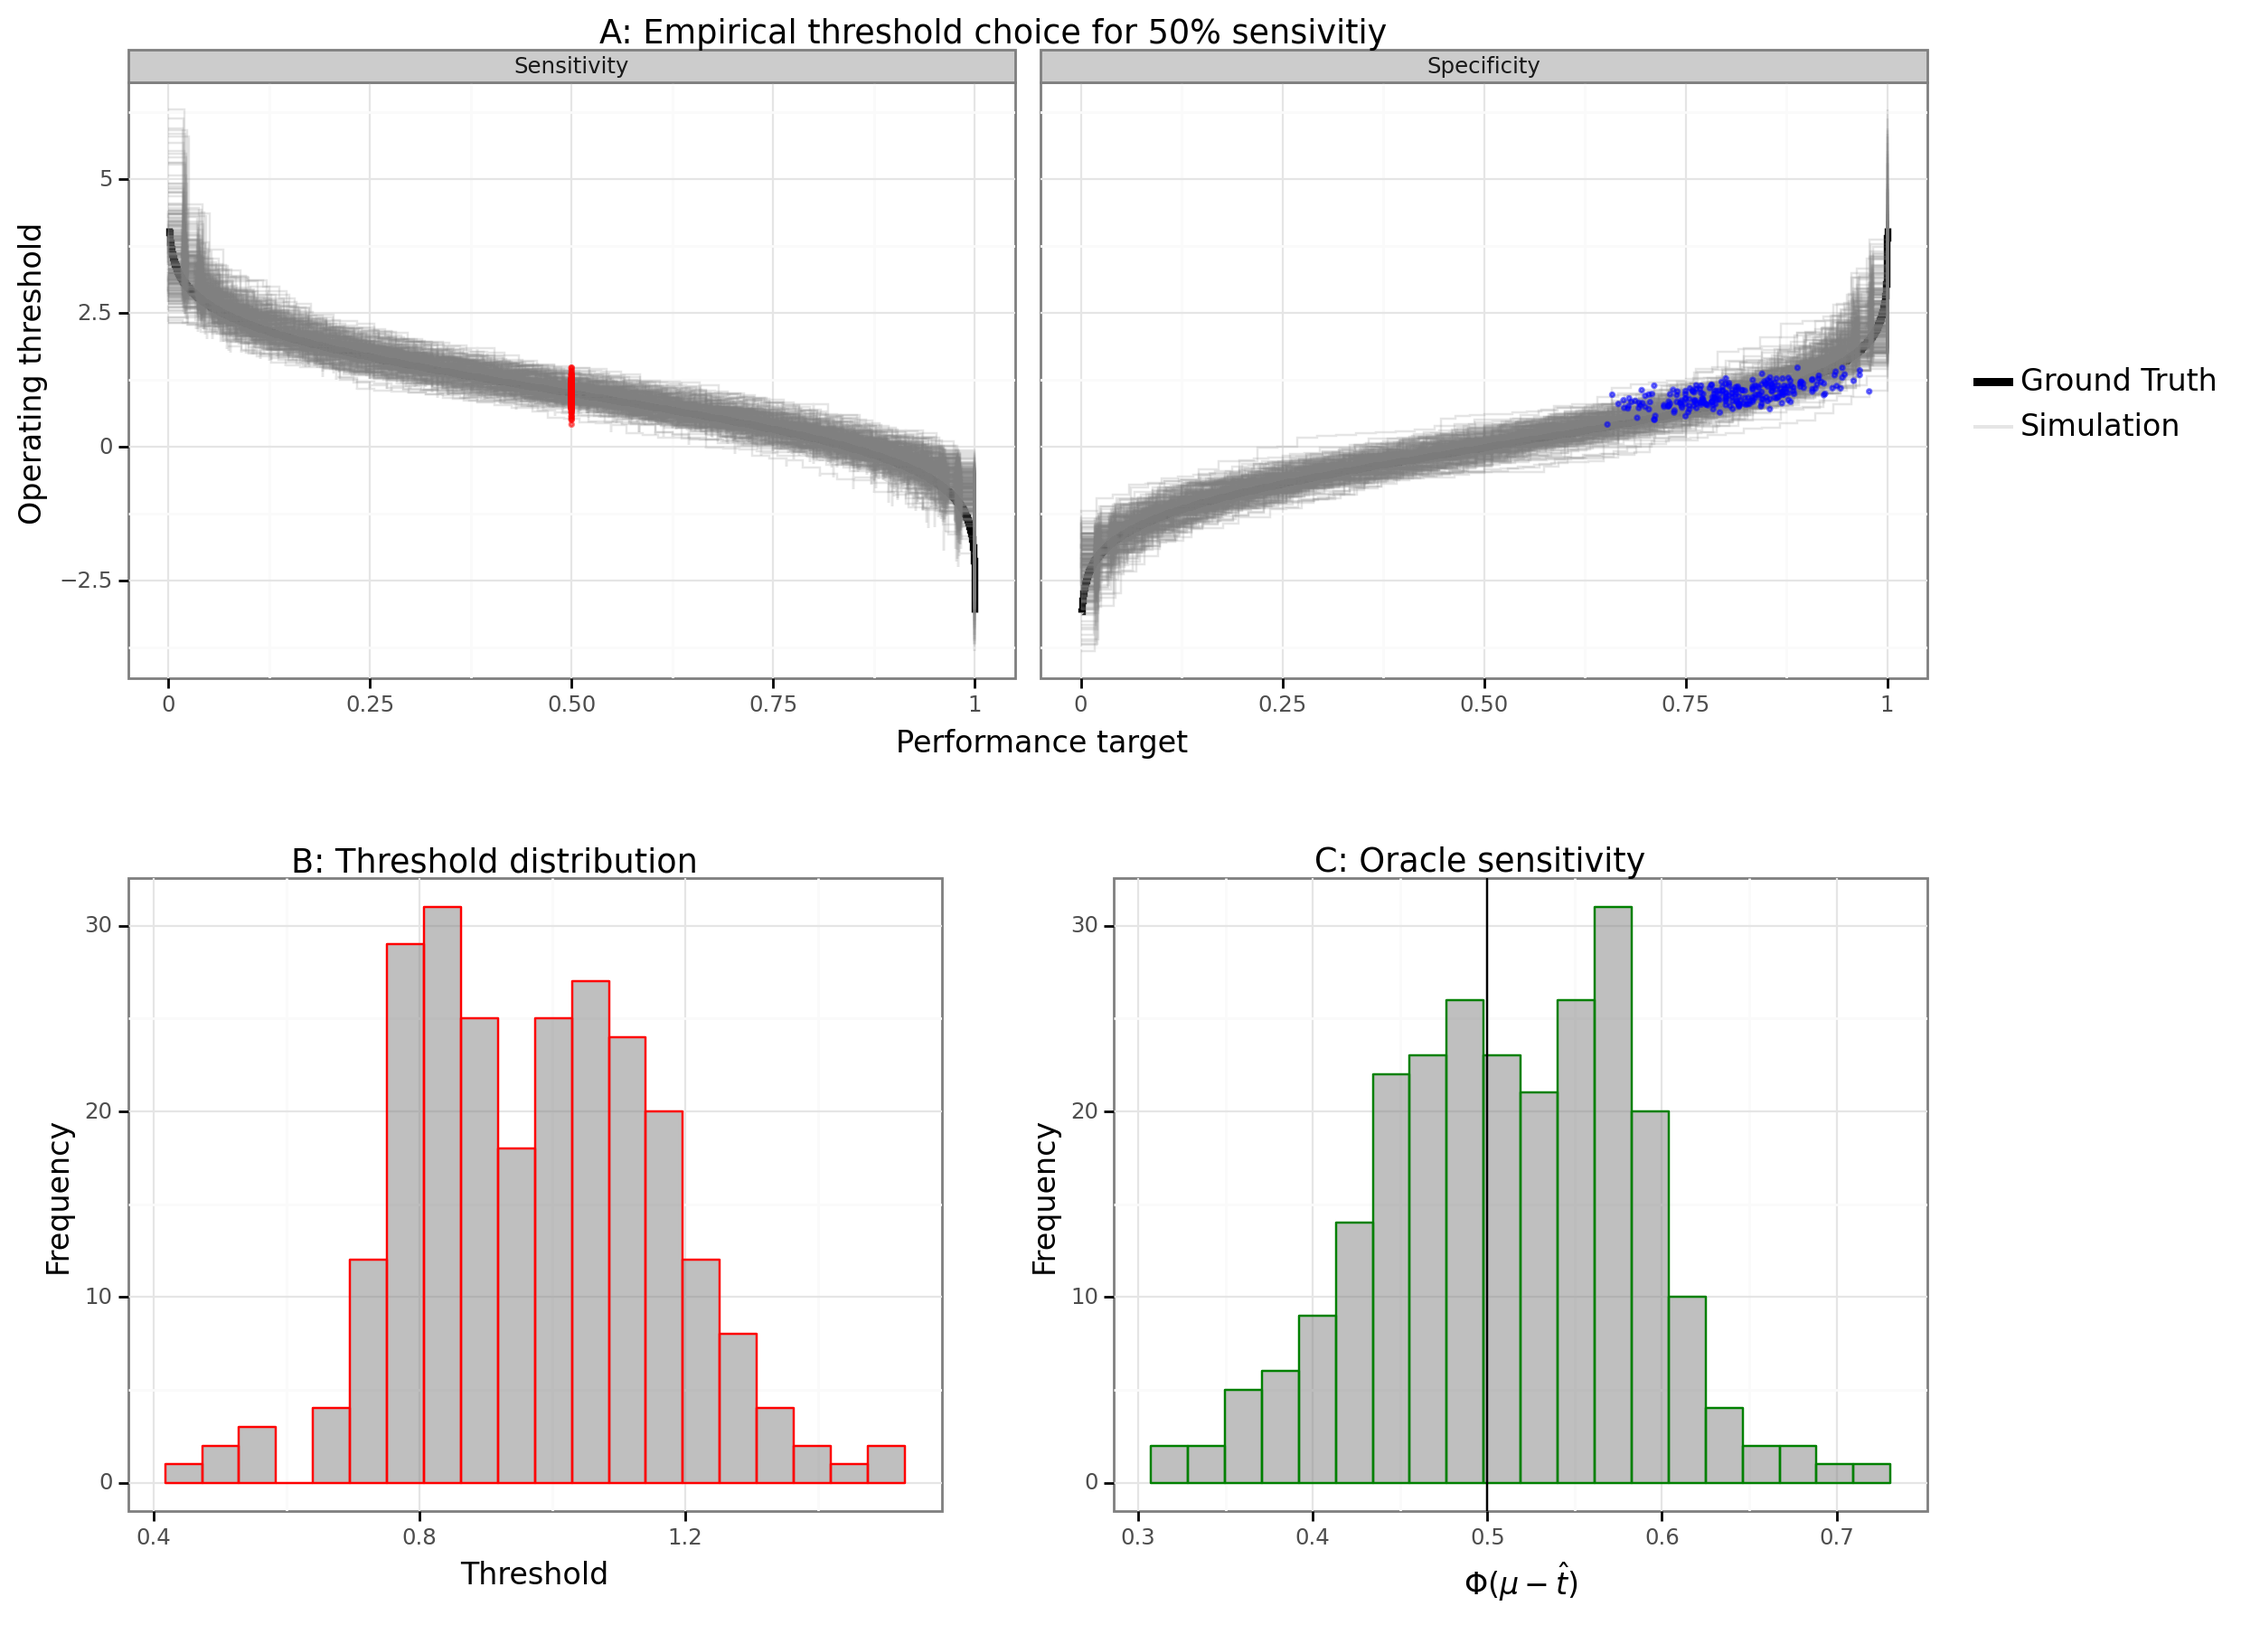
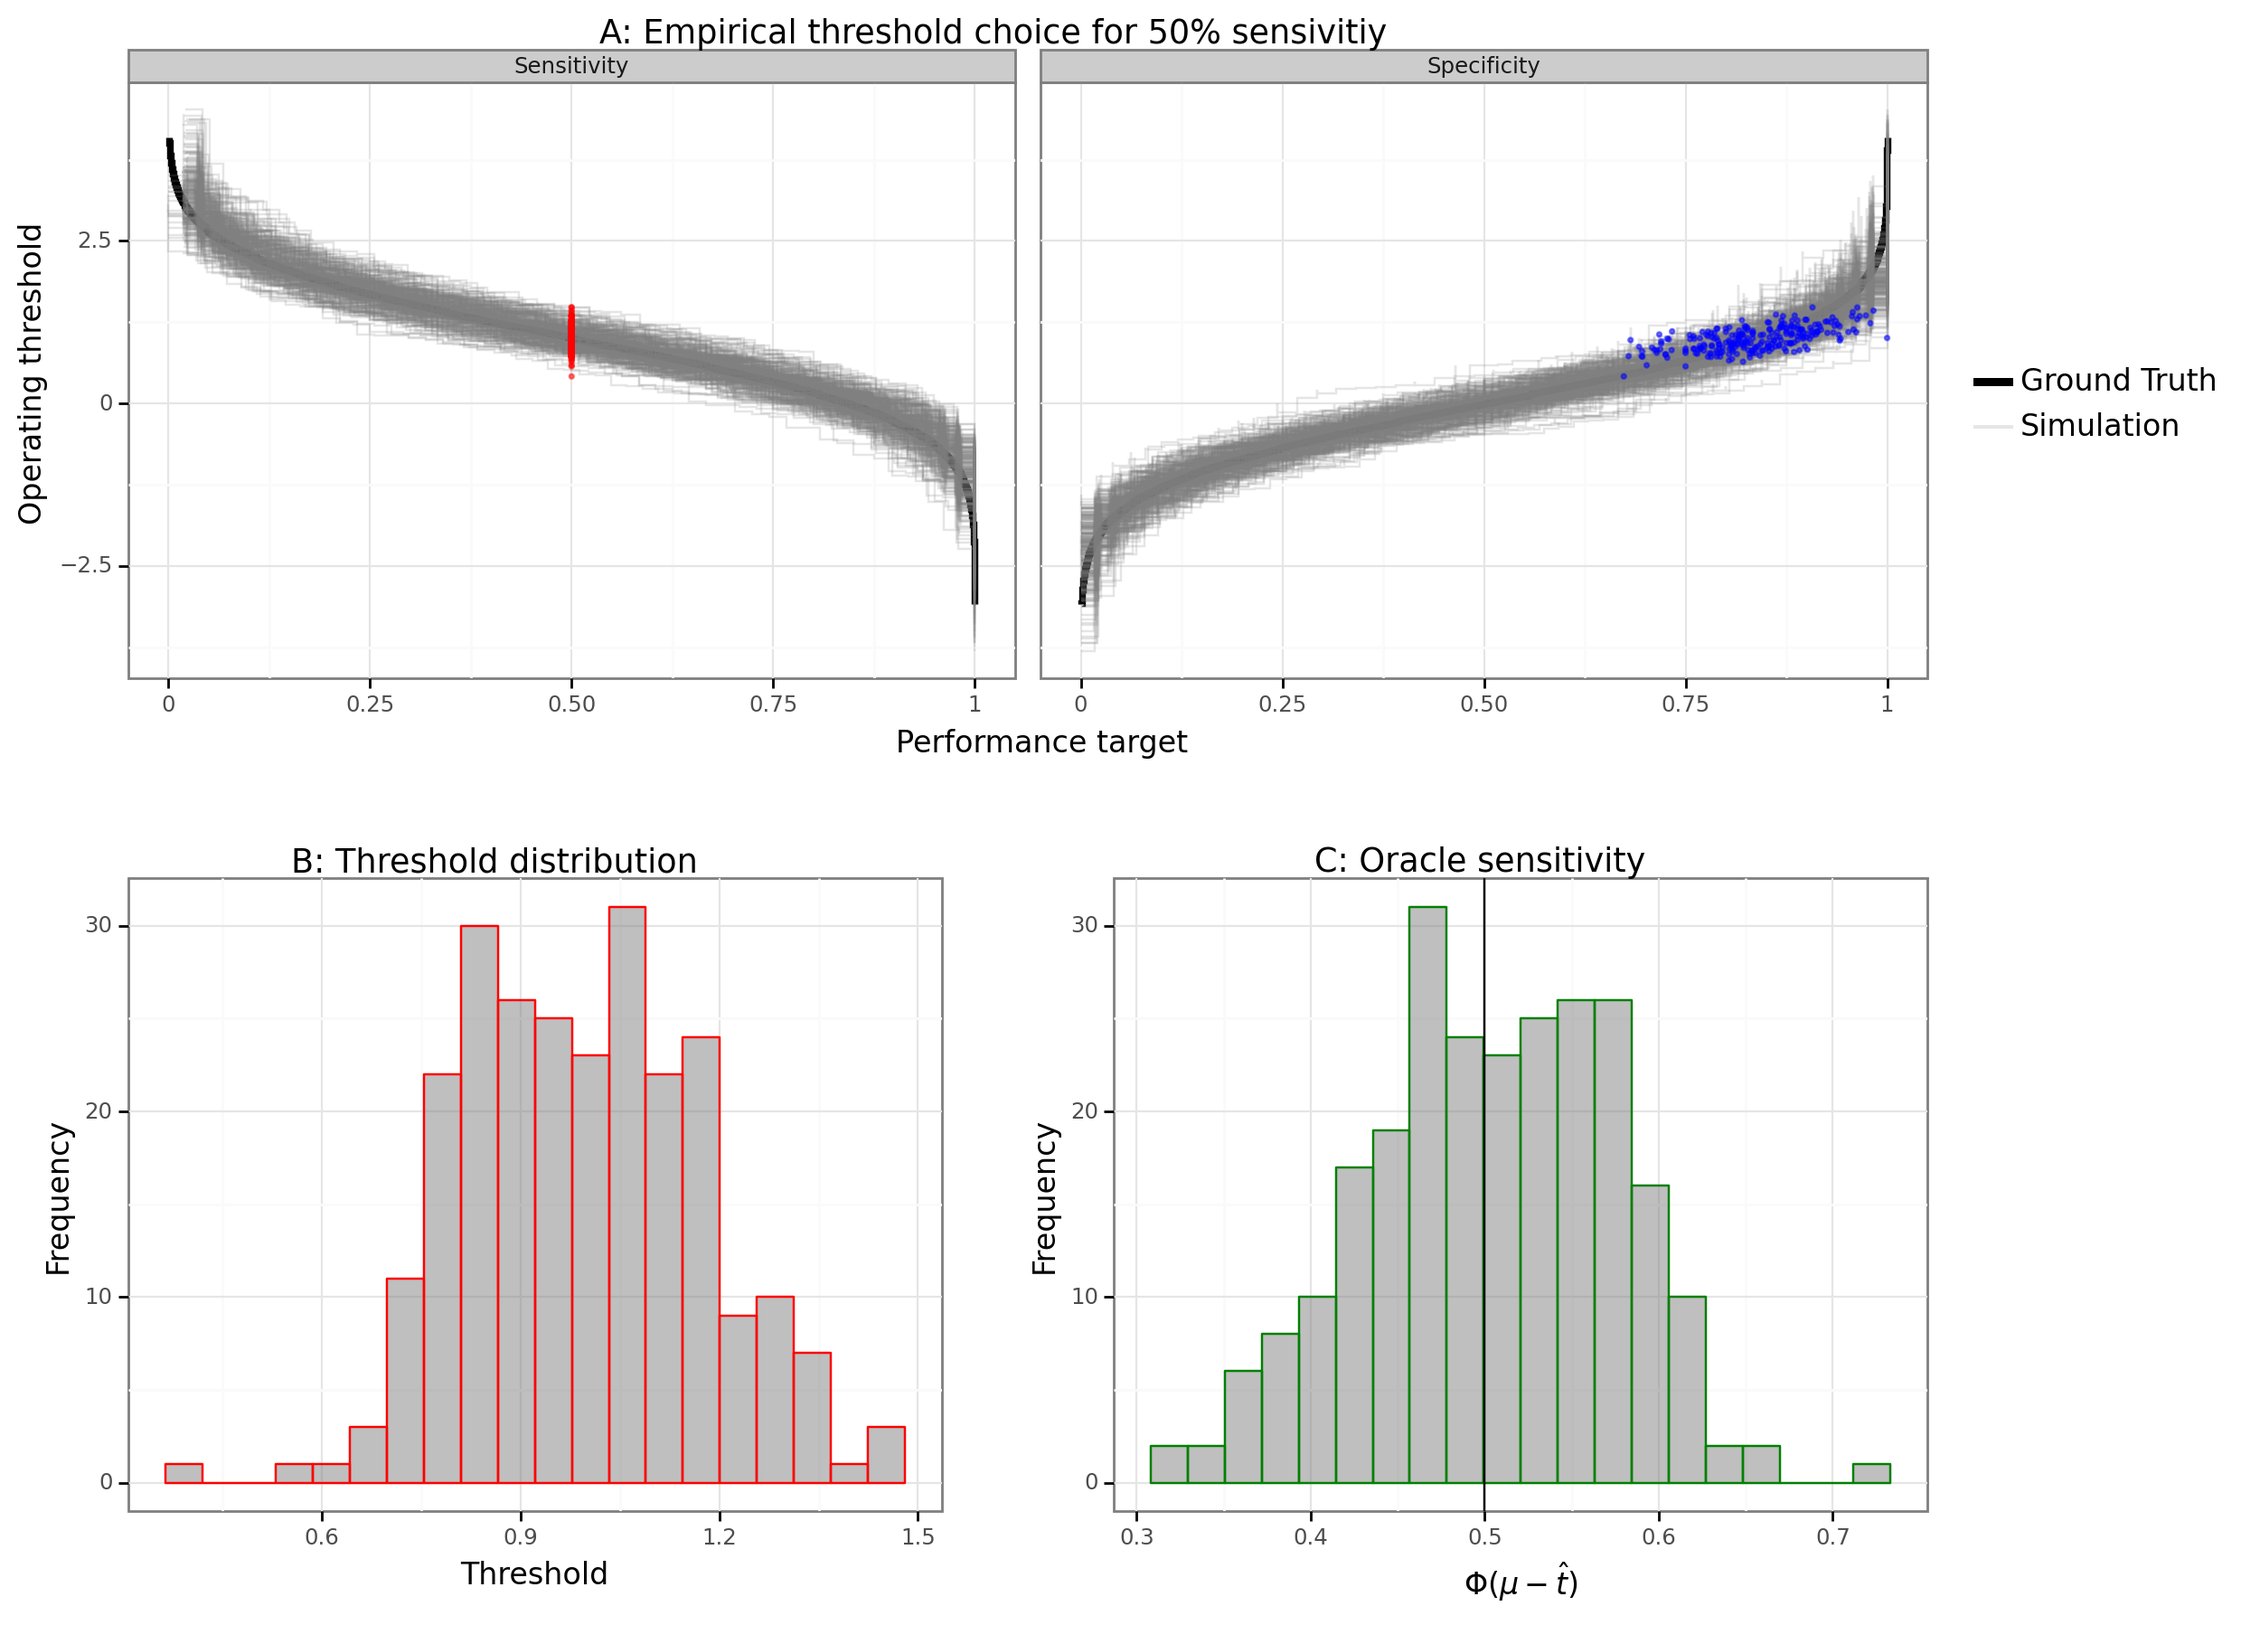
updating run_hydro figure

diff --git a/run_hydro.py b/run_hydro.py
@@ -16,7 +16,7 @@ nsim = 250
 alpha = 0.05
 di_msr = {'sens':'Sensitivity', 'spec':'Specificity', 'thresh':'Threshold'}
 di_ds = {'test':'Test','hsk':'HSK', 'stan':'Stanford', 'iowa':'Iowa'}
-di_metric = {'pval':'P-value', 'stat':'Statistic', 'z':'Z-score'}
+di_metric = {'pval':'P-value', 'stat':'Statistic', 't2e':'Type-II (error)', 'Power':'Power'}
 lst_msr = ['sens','spec']
 
 
@@ -199,7 +199,9 @@ di_alpha = dict(zip(lst_alpha, ['lb','med','ub']))
 
 # Simulated the range of sensitivity/specificities through random patient order
 nsim = 100
+lst_frac = np.arange(0.25, 1.01, 0.05).round(2)
 lst_ds = ['stan', 'iowa', 'hsk']
+cn_q = ['pval','stat']
 holder_ds = []
 for ds in lst_ds:
     print('--- Dataset: %s ---' % di_ds[ds])
@@ -207,52 +209,36 @@ for ds in lst_ds:
     n0_ds, n1_ds = dat_ds['y'].value_counts().sort_index().values
     n0_ds, n1_ds = int(n0_ds), int(n1_ds)
     # Run the statistical test over a simulated silent trial
-    lst_frac = np.arange(0.25, 1.01, 0.05).round(2)
-    for j in range(nsim):
-        if (j+1) % 10 == 0:
-            print('Simulation %i of %i' % (j+1, nsim))
-        # Shuffle the rows of the data
-        dat_ds_rand = dat_ds.sample(frac=1,random_state=j,replace=False)
-        # Index the patients (groupby label to preserve balance)
-        dat_ds_rand['idx'] = dat_ds_rand.groupby('y').cumcount()+1
-        dat_ds_rand = dat_ds_rand.reset_index(drop=True).rename_axis('idt').reset_index()
-        dat_ds_rand = dat_ds_rand.merge(df_n_ds).assign(idx=lambda x: x['idx']/x['n'])
-        for frac in lst_frac:
-            dat_ds_frac = dat_ds_rand.query('idx <= @frac')
-            n0_frac, n1_frac = dat_ds_frac['y'].value_counts().sort_index().values
-            n0_frac, n1_frac = int(n0_frac), int(n1_frac)
-            # (i) Calculate expected power at this sample size
-            enc_test.run_power('both', n1_trial=n1_frac, n0_trial=n0_frac, method='quantile')
-            tmp_power_frac = enc_test.df_power.drop(columns=['power','method'])
-            # (ii) Calculate actual test statistics
+    for frac in lst_frac:
+        n0_frac, n1_frac = int(n0_ds*frac), int(n1_ds*frac)
+        # (i) Calculate expected power at this sample size
+        enc_test.run_power('both', n1_trial=n1_frac, n0_trial=n0_frac, method='quantile')
+        tmp_power_frac = enc_test.df_power.drop(columns=['power','method','h0','n_trial'])
+        # Make into type-2 error
+        tmp_power_frac = tmp_power_frac.assign(lb1=lambda x: 1-x['ub'], ub1=lambda x: 1-x['lb'])
+        tmp_power_frac = tmp_power_frac.drop(columns=['lb','ub']).rename(columns={'lb1':'lb','ub1':'ub'}).assign(metric='t2e')
+        # (ii) Bootstrap actual test statistics
+        n_vec_frac = np.array([n1_frac, n0_frac])
+        holder_sim = []
+        for i in range(nsim):
+            dat_ds_frac= dat_ds.sample(frac=frac, replace=True, random_state=i)
             p_act_frac = enc_test.get_tptn(dat_ds_frac['y'], dat_ds_frac['s'])
             p_act_frac = p_act_frac.values.flatten()
-            n_vec_frac = np.array([n1_frac, n0_frac])
             tmp_frac_stat = enc_test.binom_stat(p_act=p_act_frac, p_null=vec_null, n=n_vec_frac)
             tmp_frac_stat = tmp_frac_stat.assign(msr=lst_msr).drop(columns='reject')
-            tmp_frac_stat = tmp_frac_stat.assign(stat=p_act_frac, frac=frac, sim=j, ds=ds)
-            # (iii) Merge and store
-            tmp_frac_stat = tmp_frac_stat.merge(tmp_power_frac)
-            holder_ds.append(tmp_frac_stat)
+            tmp_frac_stat = tmp_frac_stat.assign(stat=p_act_frac).assign(sim=i)
+            holder_sim.append(tmp_frac_stat)
+        tmp_sim = pd.concat(holder_sim).groupby('msr')[cn_q].quantile(lst_alpha).reset_index()
+        tmp_sim = tmp_sim.melt(['msr','level_1'],None,'metric')
+        tmp_sim = tmp_sim.pivot_table('value',['msr','metric'],'level_1')
+        tmp_sim = tmp_sim.rename(columns=di_alpha).reset_index()
+
+        # (iii) Merge and store
+        tmp_frac_stat = pd.concat(objs=[tmp_power_frac, tmp_sim], axis=0).assign(frac=frac, ds=ds)
+        holder_ds.append(tmp_frac_stat)
 # Merge and clean
 res_sim_trial = pd.concat(holder_ds).reset_index(drop=True)
-cn_gg = ['ds','msr','frac','n_trial','lb','ub','h0']
-cn_val = list(res_sim_trial.columns.drop(cn_gg))
-assert np.all(res_sim_trial.groupby(cn_gg).size() == nsim)
-# Calculate the 95% range across fractions
-res_ci_trial = res_sim_trial.groupby(cn_gg)[cn_val].quantile(lst_alpha).reset_index()
-res_ci_trial.rename(columns={'level_%s'%len(cn_gg):'tt'},inplace=True)
-# To avoid confusion, make lower and upper bound estimates of power into type-2 errors
-res_ci_trial = res_ci_trial.assign(beta_lb=lambda x: 1-x['ub'], beta_ub=lambda x: 1-x['lb'])
-res_ci_trial.drop(columns=['lb','ub'],inplace=True)
-cn_gg = res_ci_trial.columns.drop(cn_val)
-res_ci_trial = res_ci_trial.melt(cn_gg,cn_val,'metric','val')
-# Get empirical CI around simulated performance
-res_ci_trial = res_ci_trial.pivot_table('val',list(cn_gg.drop('tt'))+['metric'],'tt')
-res_ci_trial = res_ci_trial.rename(columns=di_alpha).reset_index()
-# Remove sim and z-score for now
-res_ci_trial = res_ci_trial[~res_ci_trial['metric'].isin(['z','sim'])].reset_index(drop=True)
-res_ci_trial['metric'] = res_ci_trial['metric'].map(di_metric)
+res_sim_trial['metric'] = res_sim_trial['metric'].map(di_metric)
 
 # Horizontal lines to show null
 df_null = pd.DataFrame({'msr':lst_msr, 'null':vec_null, 'target':vec_target})
@@ -260,17 +246,8 @@ df_null = df_null.melt('msr',None,'calib')
 
 # (i) Plot trial results
 gtit = 'Horizontal lines shows null hypothesis\nLine range shows values of simulations'
-# Put beta as a type of metric
-grp1 = ['ds','msr','frac','n_trial']
-tmp1 = res_ci_trial.melt(grp1,['beta_lb','beta_ub'])
-tmp1 = tmp1.drop_duplicates().assign(metric='Type-II error')
-tmp1['tt'] = tmp1['tt'].str.replace('beta_','',regex=False)
-tmp1 = tmp1.pivot_table('value',grp1+['metric'],'tt').reset_index()
-tmp2 = res_ci_trial.drop(columns=['beta_lb','beta_ub'])
-tmp_df = pd.concat(objs=[tmp1, tmp2],axis=0).reset_index(drop=True)
-
 colz = ["#F8766D","#619CFF","#00BA38"]
-gg_trial_sim = (pn.ggplot(tmp_df,pn.aes(x='frac',y='med',color='metric',fill='metric')) + 
+gg_trial_sim = (pn.ggplot(res_sim_trial,pn.aes(x='frac',y='med',color='metric',fill='metric')) + 
     pn.geom_line() + 
     pn.geom_ribbon(pn.aes(ymin='lb',ymax='ub'),alpha=0.5,color='black') + 
     pn.theme_bw() + pn.ggtitle(gtit) + 
@@ -283,4 +260,4 @@ gg_trial_sim = (pn.ggplot(tmp_df,pn.aes(x='frac',y='med',color='metric',fill='me
     pn.facet_grid('msr~ds',labeller=pn.labeller(msr=di_msr, ds=di_ds)))
 gg_trial_sim.save(os.path.join(dir_figures,'gg_trial_sim.png'),height=7,width=12)
 
-
+print('~~~ End of run_hydro.py ~~~')
